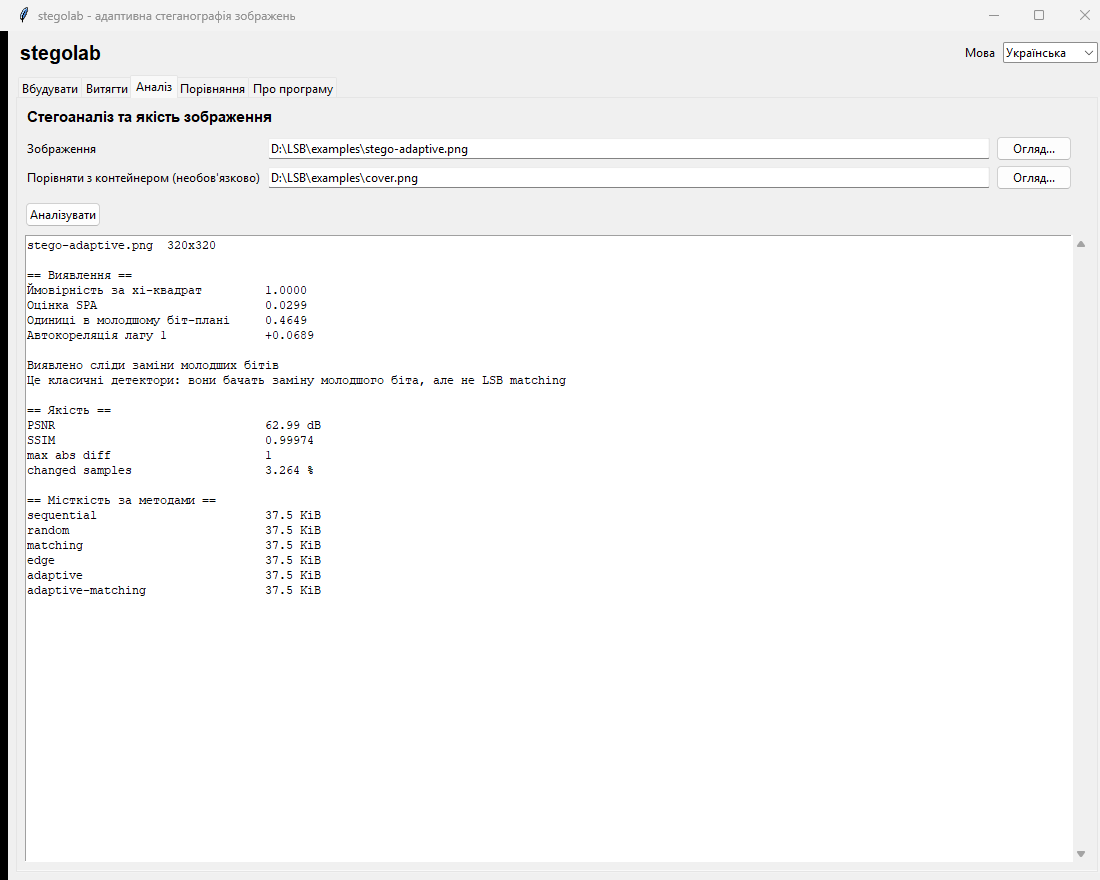
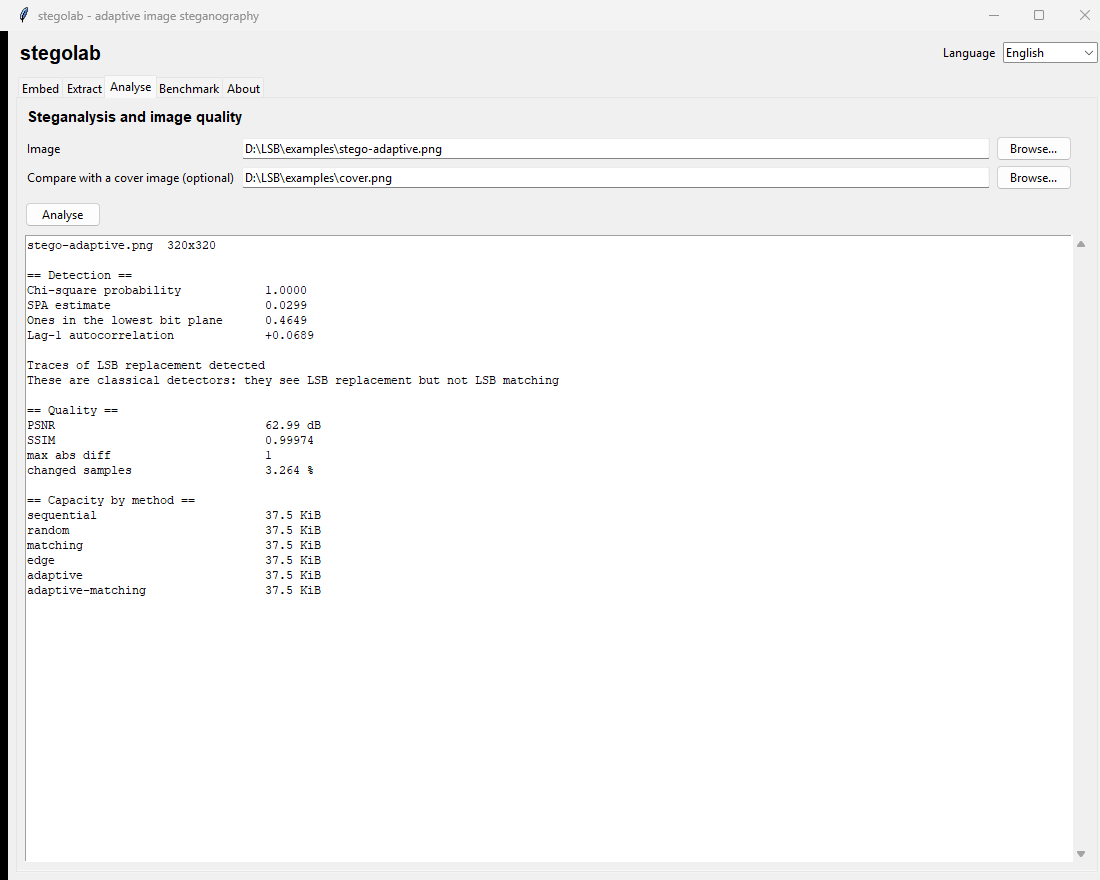
Use English screenshots in the README and add a language comparison
The README is written in English, so a Ukrainian screenshot in the middle of
it was confusing. The three supported languages are now shown in one compact
figure instead.

diff --git a/README.md b/README.md
@@ -99,7 +99,11 @@ The interface language is chosen in the top right corner - English, Ukrainian or
 Russian - and the choice is remembered between sessions. Long operations run in
 a worker thread, so the window stays responsive on large images.
 
-![the analyse tab in Ukrainian](docs/figures/gui-analyze.png)
+![the analyse tab](docs/figures/gui-analyze.png)
+
+The same panel in each of the three languages:
+
+![the interface in English, Ukrainian and Russian](docs/figures/gui-languages.png)
 
 ### Command line
 
